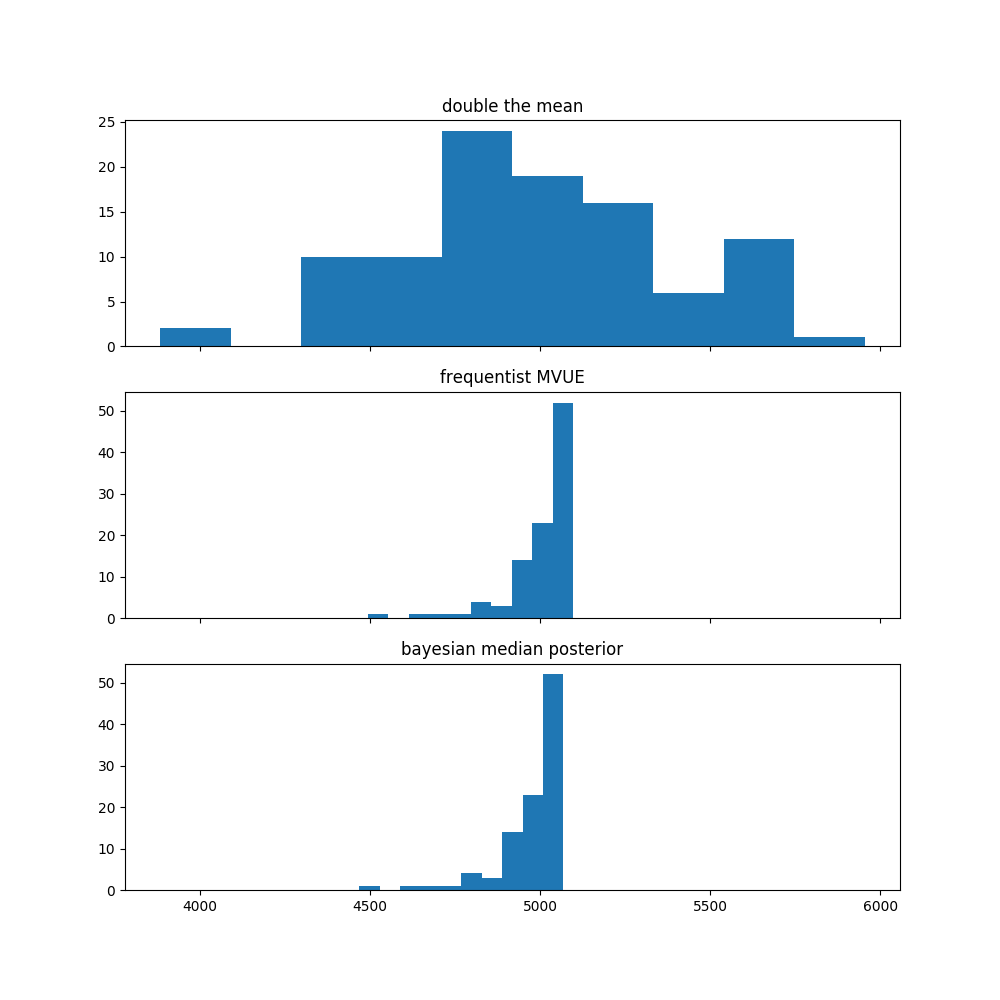
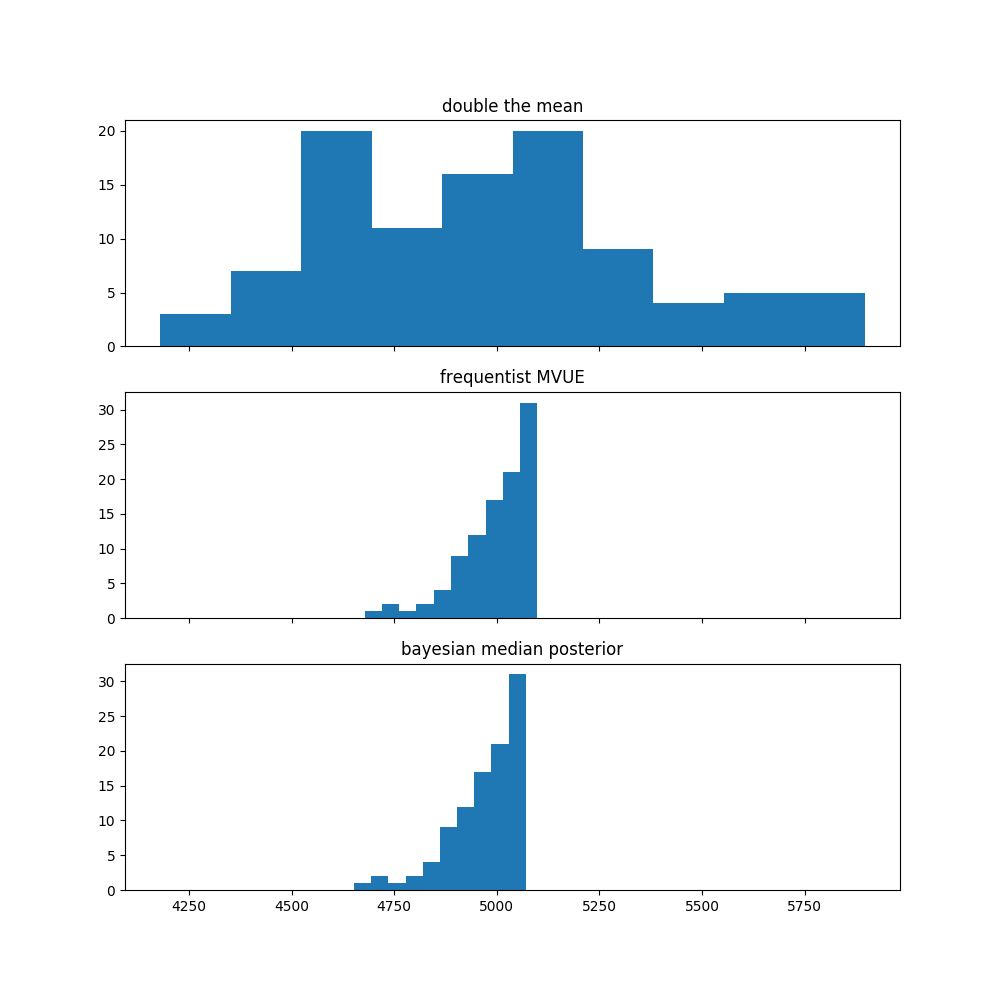
fix by not allowing replacements

diff --git a/german_tank.py b/german_tank.py
@@ -2,9 +2,6 @@ import numpy as np
 from scipy.stats import randint
 import matplotlib.pyplot as plt
 
-n_tanks = 5000
-true_tank_distribution = randint(0, n_tanks)
-
 def double_mean_estimator(sample):
     return sample.mean() * 2
 
@@ -18,13 +15,13 @@ def bayes_estimator(sample):
     k = len(sample)
     return m + (m * np.log(2)) / (k - 1)
 
-def german(ground_truth):
-    tank_sample = ground_truth.rvs(50)
+def german():
+    tank_sample = np.random.choice(5000, 50, replace=False) + 1
     return (double_mean_estimator(tank_sample),
         freq_estimator(tank_sample), 
         bayes_estimator(tank_sample))
 
-samples = np.array([german(true_tank_distribution) for _ in range(100)])
+samples = np.array([german() for _ in range(100)])
 
 fig, axes = plt.subplots(3, 1, sharex=True, figsize=(10, 10))
 axes[0].hist(samples[:, 0])
